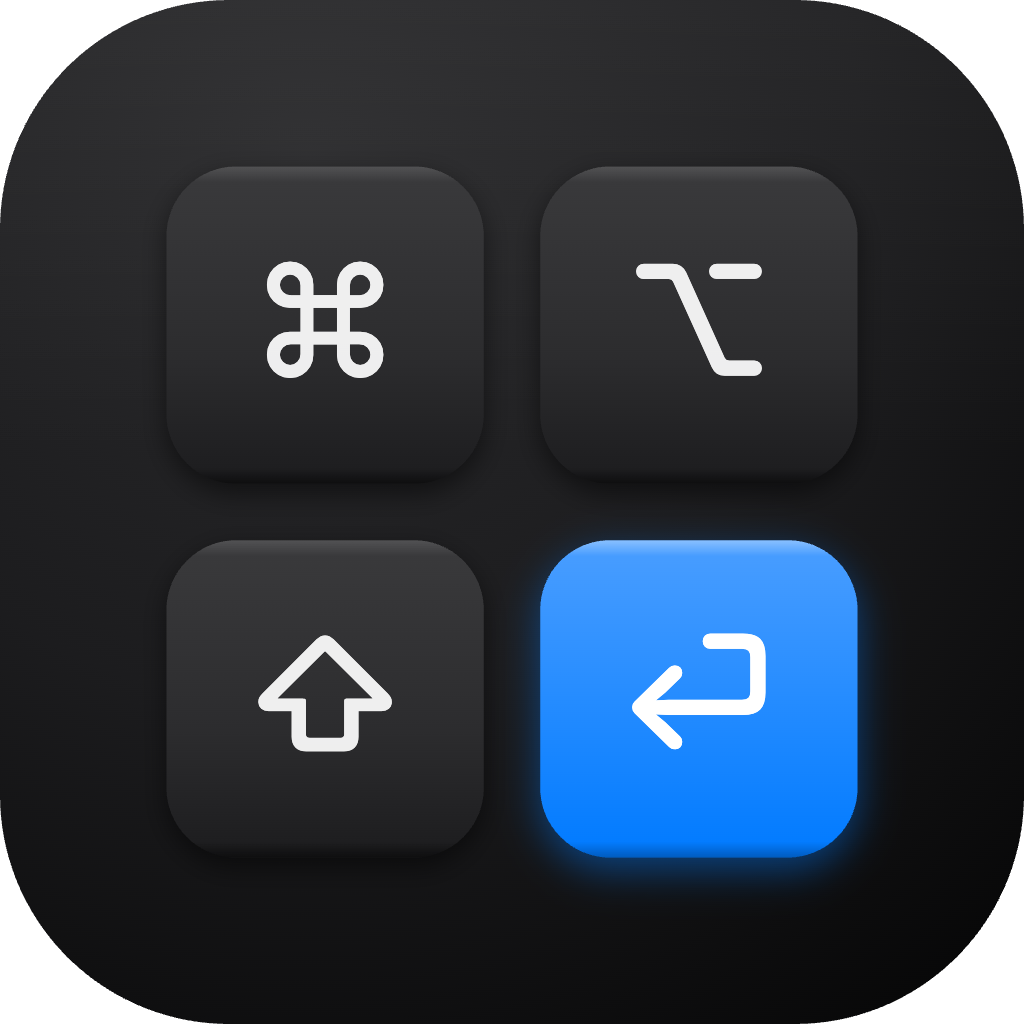
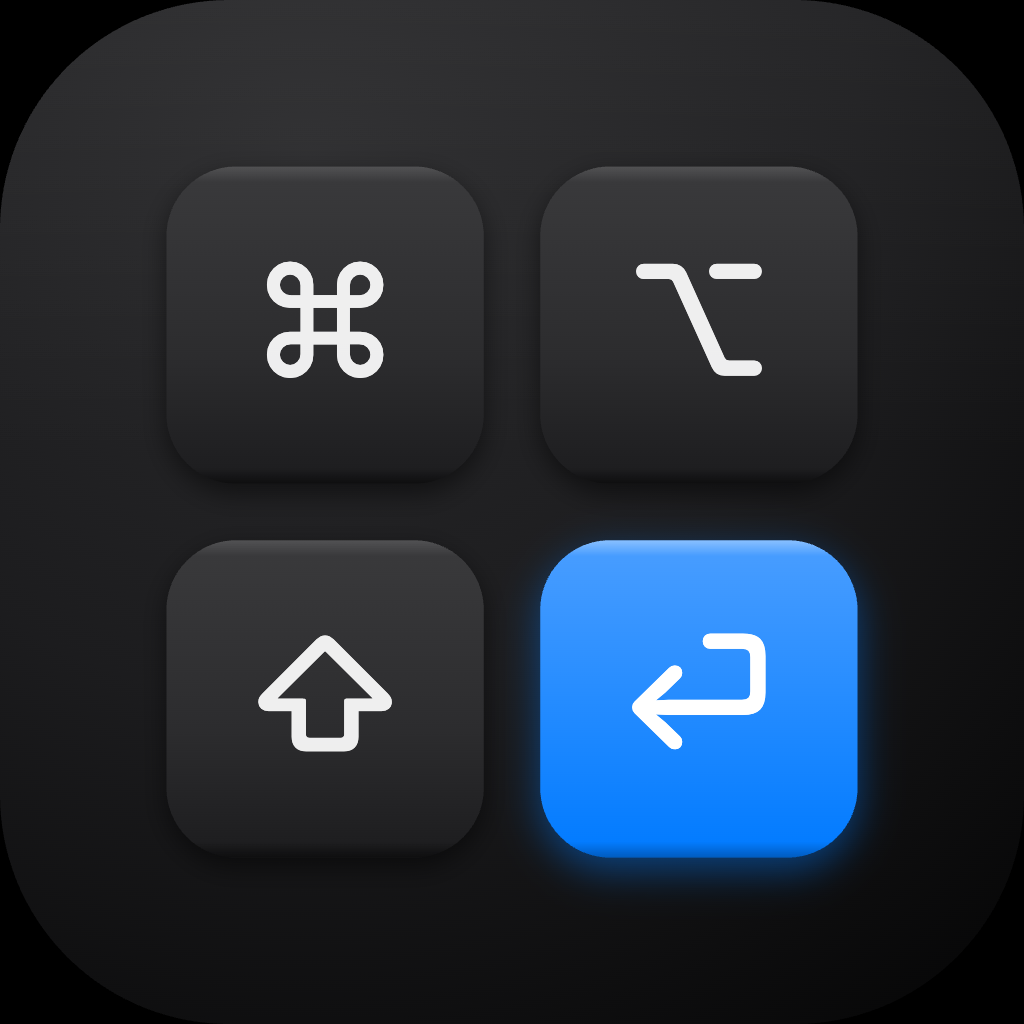
feat: iOS TestFlight 배포 준비 + 런북
- iOSApp/MacRemote.xcodeproj: NSLocalNetworkUsageDescription 빌드 설정
  추가 (Debug/Release 양쪽). iOS 14+는 같은 Wi-Fi의 Mac에 WebSocket
  연결 시 로컬 네트워크 권한을 요구하며, description 키 없이는
  Distribution 빌드에서 시스템이 권한 다이얼로그를 띄우지 않고
  조용히 차단한다.
- AppIcon-1024.png: 알파 채널 제거 (검은 배경에 평탄화). iOS App Store
  validation은 1024 아이콘에 투명도/알파를 허용하지 않는다. 둥근 모서리
  마스크는 iOS가 런타임에 자동 적용하므로 정사각형 + 단색 배경으로
  충분. (icon/ 원본도 함께 평탄화)
- doc/runbook/ios-testflight-release.md: 인증서/Bundle ID/앱 레코드
  사전 준비, 코드 점검(아이콘·권한·ATS), Archive & Upload, TestFlight
  처리·내부 테스터 배포, 트러블슈팅(오늘 겪은 함정 포함) 정리.
- .gitignore: *.orig 추가 (이미지 평탄화 백업 파일 제외).

diff --git a/doc/runbook/ios-testflight-release.md b/doc/runbook/ios-testflight-release.md
@@ -1,0 +1,229 @@
+# iOS TestFlight 배포 런북
+
+iOSApp(MacRemote)을 TestFlight로 업로드해 내부 테스터에게 배포한다.
+
+- **빌드 도구**: Xcode (Archive → Distribute App)
+- **서명 방식**: Automatic (Xcode가 인증서·프로비저닝 자동 관리)
+- **배포 채널**: TestFlight 내부 테스트 (심사 없음, 즉시 배포)
+
+---
+
+## 1. 사전 준비 (최초 1회)
+
+### 1-1. Apple Developer Program 가입
+- $99/년, 개인 또는 조직 계정.
+
+### 1-2. Apple Distribution 인증서
+
+Keychain에 `Apple Distribution: <name> (<TeamID>)` 인증서가 있어야 한다.
+
+```bash
+security find-identity -v -p codesigning | grep "Apple Distribution"
+```
+
+없으면 Xcode 자동 발급:
+- Xcode → Settings → Accounts → Apple ID 추가 → **Manage Certificates...** → **+ → Apple Distribution**
+
+또는 [developer.apple.com](https://developer.apple.com/account/resources/certificates/list)에서 수동 발급.
+
+### 1-3. Bundle ID 등록
+
+`com.macremote.MacRemote` (또는 프로젝트 설정의 `PRODUCT_BUNDLE_IDENTIFIER`)를 [Identifiers](https://developer.apple.com/account/resources/identifiers/list)에 등록.
+
+1. **+** → **App IDs** → **App** → Continue
+2. Description, Bundle ID (**Explicit**, 정확히 매칭) 입력
+3. Capabilities: 우리 앱은 WebSocket만 사용 — 모두 해제
+4. Continue → Register
+
+> ⚠ Bundle ID는 등록 후 재사용·재등록이 매우 제한적. 신중히 결정.
+
+### 1-4. App Store Connect 앱 레코드 생성
+
+[App Store Connect](https://appstoreconnect.apple.com/apps)에서:
+
+1. **+** → **새로운 앱(New App)**
+2. 입력:
+   - 플랫폼: **iOS**
+   - 이름: `MacRemote` (App Store 표시명, 30자 이내, 변경 가능)
+   - 기본 언어: 한국어
+   - 번들 ID: §1-3에서 등록한 ID 선택
+   - SKU: 임의 고유 식별자 (예: `macremote-ios-001`) — **변경 불가**
+   - 사용자 액세스: 전체 액세스
+3. **생성**
+
+> TestFlight 내부 테스트만 할 거면 메타데이터(스크린샷, 설명 등)는 작성하지 않아도 된다.
+
+---
+
+## 2. 코드/리소스 사전 점검
+
+업로드 전에 다음 항목을 확인한다. 누락 시 Apple 측 validation에서 거부된다.
+
+### 2-1. App Icon 1024×1024 알파 채널 금지
+
+iOS App Store는 1024 아이콘에 알파(투명도) 없는 PNG만 허용한다.
+
+```bash
+sips -g hasAlpha iOSApp/iOSApp/Assets.xcassets/AppIcon.appiconset/AppIcon-1024.png
+# hasAlpha: no  ← 이어야 함
+```
+
+`yes`로 나오면 평탄화:
+
+```bash
+python3 <<'PY'
+from PIL import Image
+src = "iOSApp/iOSApp/Assets.xcassets/AppIcon.appiconset/AppIcon-1024.png"
+img = Image.open(src).convert("RGBA")
+bg = Image.new("RGB", img.size, (0, 0, 0))  # 디자인에 맞춰 배경색 선택
+bg.paste(img, mask=img.split()[3])
+bg.save(src, "PNG", optimize=True)
+PY
+```
+
+- 둥근 모서리는 iOS가 자동 적용하니 **정사각형 + 단색 배경**으로 채우면 충분.
+- 배경색은 아이콘 디자인 톤에 맞춰 결정 (어두운 디자인 → 검정, 밝은 디자인 → 흰색).
+
+### 2-2. Local Network 권한 (`NSLocalNetworkUsageDescription`)
+
+같은 Wi-Fi의 Mac에 WebSocket 연결하려면 iOS 14+ 로컬 네트워크 권한이 필요. **description 키가 없으면 Distribution 빌드에서 시스템이 권한 다이얼로그를 띄우지 않고 조용히 차단**한다.
+
+이 프로젝트는 `INFOPLIST_KEY_*` 빌드 설정 방식으로 Xcode가 Info.plist 자동 생성. `project.pbxproj`에 다음이 있어야 함 (Debug + Release 양쪽):
+
+```
+INFOPLIST_KEY_NSLocalNetworkUsageDescription = "같은 Wi-Fi의 Mac과 연결하기 위해 로컬 네트워크에 접근합니다.";
+```
+
+확인:
+```bash
+grep -c NSLocalNetworkUsageDescription iOSApp/MacRemote.xcodeproj/project.pbxproj
+# 2  ← Debug + Release 둘 다 있어야 정상
+```
+
+### 2-3. ATS (App Transport Security)
+
+WebSocket을 `ws://` 평문으로 쓰지만, **사설 IP(192.168.x.x, 10.x, 172.16-31.x)와 `.local` 호스트는 ATS 자동 예외** ([Apple 공식](https://developer.apple.com/documentation/security/preventing-insecure-network-connections)). `NSAppTransportSecurity` 설정 추가 불필요.
+
+> 만약 도메인 기반 호스트로 평문 통신을 한다면 `NSAllowsLocalNetworking = true` 같은 예외가 필요해진다. 우리 케이스는 해당 없음.
+
+### 2-4. 서명 설정 확인
+
+`MacRemote.xcodeproj/project.pbxproj`:
+
+```
+CODE_SIGN_STYLE = Automatic;
+DEVELOPMENT_TEAM = UYQF47UCVR;
+PRODUCT_BUNDLE_IDENTIFIER = com.macremote.MacRemote;
+```
+
+Xcode → Target → **Signing & Capabilities** 탭에서:
+- ✅ Automatically manage signing
+- ✅ Team 선택됨 (`keonhak lee (UYQF47UCVR)`)
+- ✅ Bundle Identifier 일치
+- 빨간 에러 없음 (Provisioning Profile 자동 발급 중이면 잠시 대기)
+
+---
+
+## 3. Archive & Upload
+
+### 3-1. 빌드 대상
+
+Xcode 상단 destination 드롭다운에서 **`Any iOS Device (arm64)`** 선택.
+시뮬레이터로는 Archive 불가.
+
+### 3-2. Archive
+
+**Product → Archive** (1~3분).
+
+성공 시 **Organizer** 창이 자동으로 열림 (다른 모니터/공간에 떠 있을 수 있음 — 확인).
+
+### 3-3. Distribute App
+
+Organizer → Archives 탭 → 방금 만든 archive 선택 → **Distribute App**:
+
+1. **App Store Connect** → Next
+2. **Upload** → Next
+3. 기본값 유지 (Upload symbols, Manage version automatically) → Next
+4. **Automatically manage signing** → Next
+5. 요약 → **Upload**
+
+업로드 1~5분. 성공 메시지 → **Done**.
+
+---
+
+## 4. App Store Connect 처리
+
+### 4-1. 처리 대기
+
+[App Store Connect](https://appstoreconnect.apple.com) → My Apps → **MacRemote** → **TestFlight** 탭
+
+방금 올린 빌드가 **"처리 중(Processing)"** 5~30분.
+
+### 4-2. Export Compliance
+
+처리 끝나면 노란 ⚠ **"Missing Compliance"** 표시되는 경우 클릭:
+
+- 질문: "암호화를 사용합니까?"
+- 답: **아니요** *(이 앱은 평문 WebSocket만 사용, HTTPS/암호화 통신 없음)*
+
+> 표준 암호화(HTTPS, TLS만) 사용 시엔 "예 → 표준 암호화" 선택하면 면제. 우리 케이스는 그냥 "아니요"로 충분.
+
+### 4-3. 내부 테스터 추가
+
+TestFlight 탭 → 좌측 **내부 테스트(Internal Testing)** → **+** → 그룹 생성:
+
+- 그룹 이름: `Dev` 등
+- **사용자 추가**: App Store Connect에 등록된 사람만 가능 (최대 100명)
+- 빌드 할당: 방금 처리 끝난 1.0 (1)
+
+내부 테스트는 **심사 없이 즉시** 배포.
+
+> 외부 테스터(외부 도메인, 최대 10,000명)는 첫 빌드 한 번만 Apple 간이 심사(24-48시간) 필요.
+
+### 4-4. iPhone에 설치
+
+1. **App Store**에서 **TestFlight** 앱 설치 (없다면)
+2. TestFlight 열기 → Apple ID 로그인 (App Store Connect 계정과 동일)
+3. **MacRemote** 표시됨 → **설치**
+4. 첫 실행 시 **로컬 네트워크 권한 다이얼로그** → **허용**
+5. Mac 메뉴바 헬퍼에서 QR 코드 → 카메라로 스캔 → 연결 확인
+
+---
+
+## 5. 후속 빌드 (버전 올리기)
+
+```
+1.0 (1) → 1.0 (2) → 1.0 (3) ...
+```
+
+- **Build number(`CURRENT_PROJECT_VERSION`)는 매 업로드마다 +1**. 같은 번호로 재업로드 불가.
+- Marketing version (`MARKETING_VERSION`)은 사용자에게 보이는 버전. 큰 변경 때만 올린다.
+
+Xcode → Target → **General** 탭에서 버전·빌드 번호 수정 가능. 또는 `project.pbxproj` 직접 수정.
+
+Distribute App 단계에서 **"Manage Version and Build Number"** 체크하면 Xcode가 자동으로 빌드 번호 증가시켜준다.
+
+---
+
+## 6. 트러블슈팅
+
+| 증상 | 원인 / 해결 |
+|---|---|
+| **`Validation failed: Invalid large app icon … can't be transparent or contain an alpha channel`** | 1024 아이콘 알파 채널 문제. §2-1로 평탄화. |
+| **`Validation failed: Missing Info.plist value … NSLocalNetworkUsageDescription`** | §2-2 권한 키 누락. project.pbxproj에 `INFOPLIST_KEY_NSLocalNetworkUsageDescription` 추가. |
+| iPhone 설치 후 Mac에 연결 안 됨 (조용히 실패) | 로컬 네트워크 권한 거부. 설정 → MacRemote → "로컬 네트워크" 허용. |
+| Archive 메뉴 회색 | Destination이 시뮬레이터. "Any iOS Device (arm64)"로 변경. |
+| `Provisioning profile doesn't include the currently selected device` | 다른 기기에 직접 설치하려는 경우. TestFlight 통해 배포할 거면 무시. Xcode 직접 설치하려면 device를 Apple Developer에 등록. |
+| "Could not locate provisioning profile" | Automatic signing이 꺼져있거나 Team 미선택. Signing & Capabilities 탭 확인. |
+| 같은 빌드 번호 재업로드 시도 거부 | App Store Connect는 동일 (version, build) 조합 1회만 허용. 빌드 번호 +1 후 재업로드. |
+| Organizer가 안 보임 | 다른 데스크탑/모니터/공간에 떠 있을 수 있음. **Window → Organizer**로 호출. |
+| 업로드는 성공했는데 TestFlight에 안 보임 | 처리 중(5~30분). 완료되면 이메일로 알림 옴 ("App Store Connect: The build … is now available for testing"). |
+
+---
+
+## 7. 관련 파일
+
+- `iOSApp/MacRemote.xcodeproj` — Xcode 프로젝트
+- `iOSApp/iOSApp/Assets.xcassets/AppIcon.appiconset/` — iOS 앱 아이콘 (1024 알파 금지)
+- `icon/` — 원본 아이콘 PNG/ICNS 보관소
+- `doc/runbook/mac-dmg-release.md` — Mac 헬퍼 DMG 배포 런북 (짝)
